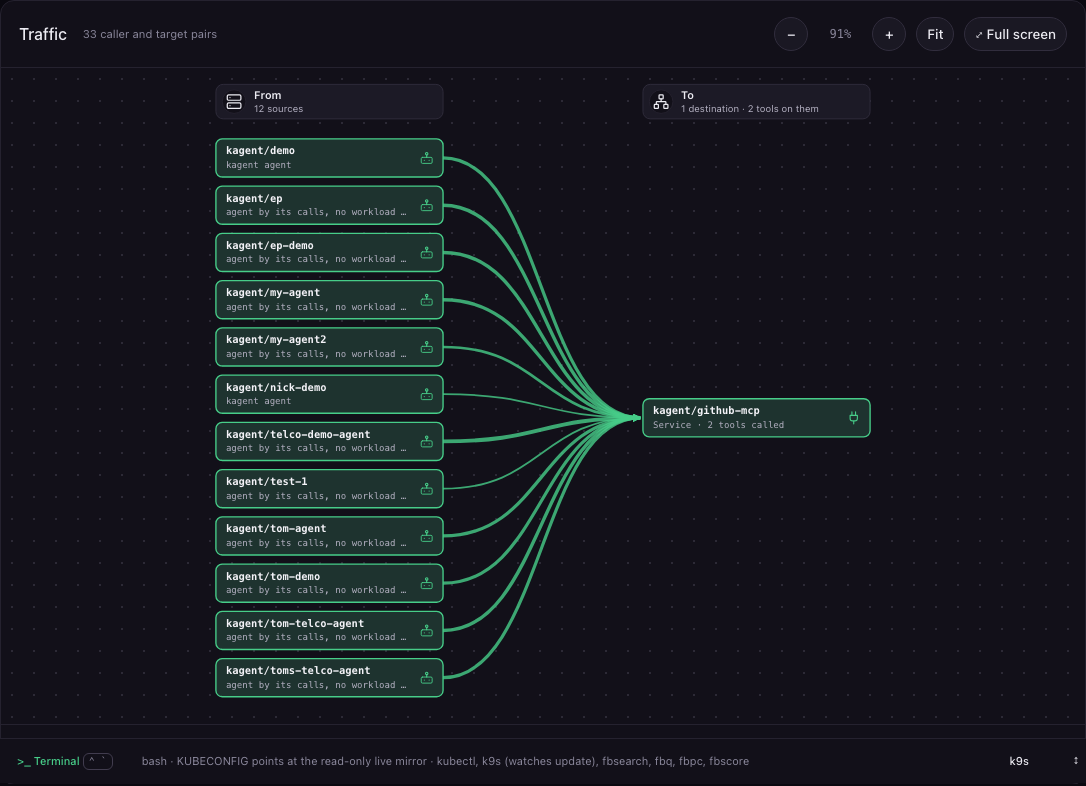
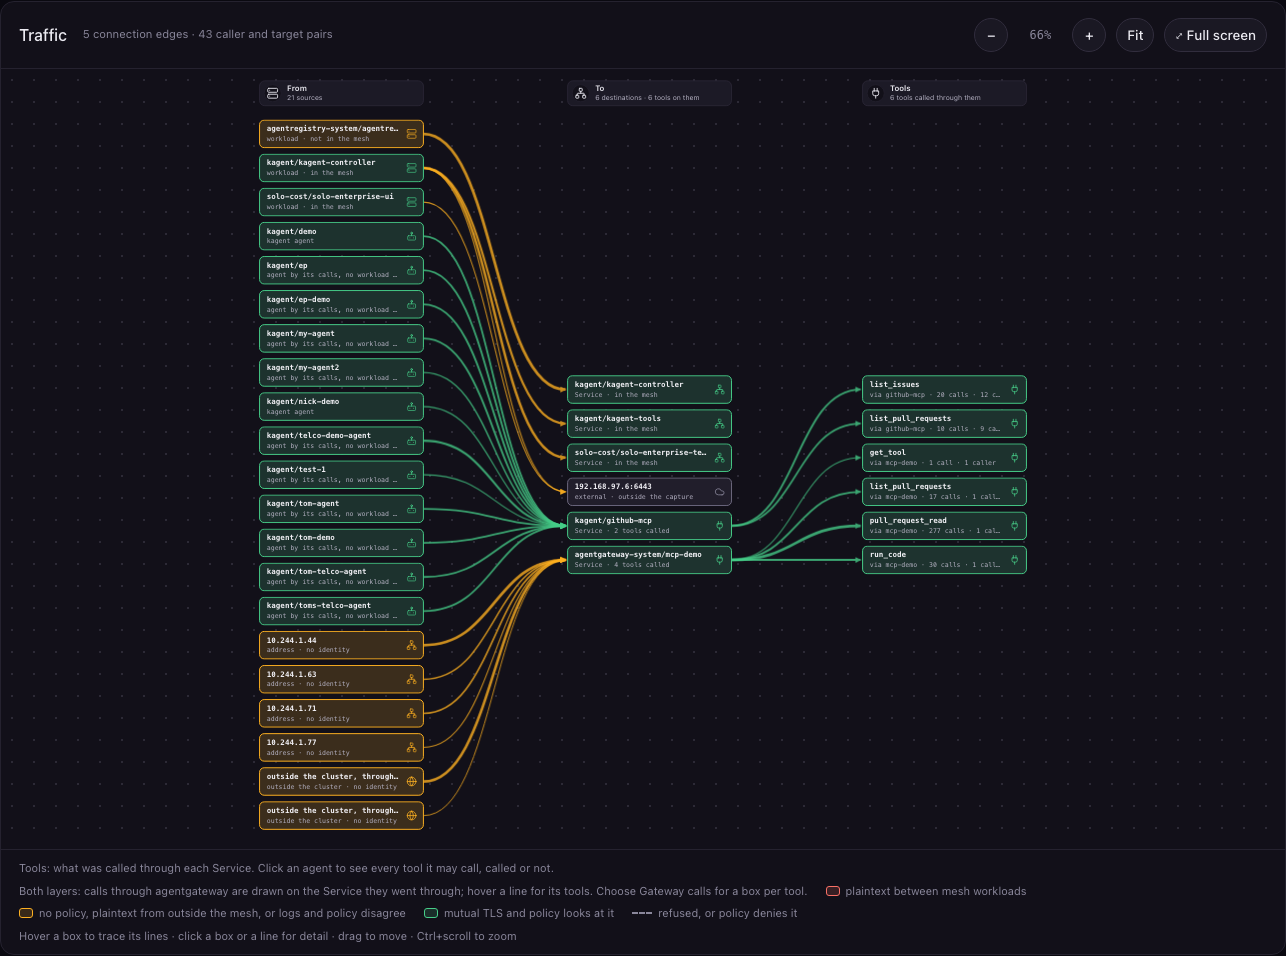
Traffic: a Tools column behind each Service with both layers on, showing every tool called through it with calls and callers; hovering an agent traces through to its tools, hovering a tool to its callers

diff --git a/web/traffic.js b/web/traffic.js
@@ -44,29 +44,36 @@ function fbFindingsWire(st, list, key) {
 // left by the average row of what they call, so lines cross as little as a
 // single pass allows. Lines are curves in the gap between the two columns, so
 // they never cross a box.
-function fbGraph({left, right, edges, heads, sel}) {
-  const bw = 250, bh = 42, vg = 10, gap = Math.max(220, Math.min(420, 90 + edges.length * 4)), HB = 52, top = HB + 16;
-  const L = [...left], R = [...right];
+// far, when given, is a third column; its edges run from a right-hand box
+// to a far box, and an edge's by lists the left-hand boxes it stands for,
+// so hovering one of those traces through to the far column.
+function fbGraph({left, right, far = [], edges, heads, sel}) {
+  const bw = 250, bh = 42, vg = 10, gap = Math.max(220, Math.min(420, 90 + edges.length * 4)), gap2 = 200, HB = 52, top = HB + 16;
+  const L = [...left], R = [...right], F = [...far];
   const li = new Map(L.map((n, i) => [n.id, i]));
   const bary = (n, map, key) => { const xs = edges.filter(e => e[key] === n.id).map(e => map.get(e[key === 'to' ? 'from' : 'to'])).filter(x => x !== undefined); return xs.length ? xs.reduce((a, b) => a + b, 0) / xs.length : 1e9; };
   R.sort((a, b) => (a.order ?? 1) - (b.order ?? 1) || bary(a, li, 'to') - bary(b, li, 'to') || a.label.localeCompare(b.label));
   const ri = new Map(R.map((n, i) => [n.id, i]));
   L.sort((a, b) => bary(a, ri, 'from') - bary(b, ri, 'from') || a.label.localeCompare(b.label));
   const lrow = new Map(L.map((n, i) => [n.id, i])), rrow = new Map(R.map((n, i) => [n.id, i]));
-  const rows = Math.max(L.length, R.length, 1);
-  const lOff = (rows - L.length) * (bh + vg) / 2, rOff = (rows - R.length) * (bh + vg) / 2;
-  const X0 = 16, X1 = 16 + bw + gap;
-  const W = X1 + bw + 16, H = top + rows * (bh + vg) + 10;
-  const yL = id => top + lOff + lrow.get(id) * (bh + vg), yR = id => top + rOff + rrow.get(id) * (bh + vg);
+  const ri2 = new Map(R.map((n, i) => [n.id, i]));
+  F.sort((a, b) => bary(a, ri2, 'to') - bary(b, ri2, 'to') || a.label.localeCompare(b.label));
+  const frow = new Map(F.map((n, i) => [n.id, i]));
+  const rows = Math.max(L.length, R.length, F.length, 1);
+  const lOff = (rows - L.length) * (bh + vg) / 2, rOff = (rows - R.length) * (bh + vg) / 2, fOff = (rows - F.length) * (bh + vg) / 2;
+  const X0 = 16, X1 = 16 + bw + gap, X2 = X1 + bw + gap2;
+  const W = (F.length ? X2 : X1) + bw + 16, H = top + rows * (bh + vg) + 10;
+  const yL = id => top + lOff + lrow.get(id) * (bh + vg), yR = id => top + rOff + rrow.get(id) * (bh + vg), yF = id => top + fOff + frow.get(id) * (bh + vg);
   const fit = (s, px) => { const n = Math.max(4, Math.floor((bw - 44) / px)); s = String(s || ''); return s.length > n ? s.slice(0, n - 1) + '…' : s; };
   const risk = r => ['red', 'amber', 'green', 'grey'].includes(r) ? r : 'grey';
   const rank = {grey: 0, green: 1, amber: 2, red: 3};
-  const es = edges.filter(e => lrow.has(e.from) && rrow.has(e.to)).sort((a, b) => rank[risk(a.risk)] - rank[risk(b.risk)]);
+  const es = edges.filter(e => (lrow.has(e.from) && rrow.has(e.to)) || (rrow.has(e.from) && frow.has(e.to))).sort((a, b) => rank[risk(a.risk)] - rank[risk(b.risk)]);
   const edgeSvg = es.map(e => {
-    const sx = X0 + bw, sy = yL(e.from) + bh / 2, tx = X1 - 3, ty = yR(e.to) + bh / 2;
-    const d = `M${sx},${sy} C${sx + gap / 2},${sy} ${tx - gap / 2},${ty} ${tx},${ty}`;
-    const on = sel && (sel === e.id || sel === e.from || sel === e.to);
-    return `<g class="rg-edge rg-${risk(e.risk)} ${e.dash ? 'rg-dash' : ''} ${e.cls || ''} ${on ? 'fb-on' : ''}" data-f="${esc(e.from)}" data-t="${esc(e.to)}" data-fbe="${esc(e.id)}"><title>${esc(e.tip || '')}</title><path class="rg-hit" d="${d}"/><path class="rg-line" d="${d}" style="stroke-width:${e.w || 1.4}" marker-end="url(#fba-${risk(e.risk)})"/></g>`;
+    const second = rrow.has(e.from), g = second ? gap2 : gap;
+    const sx = (second ? X1 : X0) + bw, sy = (second ? yR(e.from) : yL(e.from)) + bh / 2, tx = (second ? X2 : X1) - 3, ty = (second ? yF(e.to) : yR(e.to)) + bh / 2;
+    const d = `M${sx},${sy} C${sx + g / 2},${sy} ${tx - g / 2},${ty} ${tx},${ty}`;
+    const on = sel && (sel === e.id || sel === e.from || sel === e.to || (e.by || []).includes(sel));
+    return `<g class="rg-edge rg-${risk(e.risk)} ${e.dash ? 'rg-dash' : ''} ${e.cls || ''} ${on ? 'fb-on' : ''}" data-f="${esc(e.from)}" data-t="${esc(e.to)}" data-fbe="${esc(e.id)}"${e.by ? ` data-by="${esc(e.by.join(' '))}"` : ''}><title>${esc(e.tip || '')}</title><path class="rg-hit" d="${d}"/><path class="rg-line" d="${d}" style="stroke-width:${e.w || 1.4}" marker-end="url(#fba-${risk(e.risk)})"/></g>`;
   }).join('');
   const node = (n, x, y) => `<g class="rg-node rg-${risk(n.risk)} rg-click ${n.dim ? 'rg-dim' : ''} ${n.cls || ''} ${sel === n.id ? 'rg-sel' : ''}" data-rgid="${esc(n.id)}" transform="translate(${x},${y})"><title>${esc(n.tip || n.label)}</title>
     <rect width="${bw}" height="${bh}" rx="7"/>${rgIcon(n.icon || 'service', bw - 26, (bh - 16) / 2, 16, 'rg-nic')}<text x="11" y="17" class="rg-l">${esc(fit(n.label, 7.1))}</text><text x="11" y="32" class="rg-s">${esc(fit(n.sub || '', 6.2))}</text></g>`;
@@ -75,7 +82,7 @@ function fbGraph({left, right, edges, heads, sel}) {
     <text x="42" y="16" class="rg-hl">${esc(label)}</text><text x="42" y="30" class="rg-hn">${esc(note)}</text></g>`;
   const marker = r => `<marker id="fba-${r}" viewBox="0 0 10 10" refX="9" refY="5" markerUnits="userSpaceOnUse" markerWidth="9" markerHeight="9" orient="auto"><path d="M0,0 L10,5 L0,10 z" class="rg-arrow-${r}"/></marker>`;
   return `<svg class="rg" id="rg-svg" data-w="${W}" data-h="${H}" width="100%" height="100%" role="img"><defs>${['red', 'amber', 'green', 'grey'].map(marker).join('')}</defs><g id="rg-root">
-    ${headSvg(X0, heads[0])}${headSvg(X1, heads[1])}${edgeSvg}${L.map(n => node(n, X0, yL(n.id))).join('')}${R.map(n => node(n, X1, yR(n.id))).join('')}</g></svg>`;
+    ${headSvg(X0, heads[0])}${headSvg(X1, heads[1])}${F.length && heads[2] ? headSvg(X2, heads[2]) : ''}${edgeSvg}${L.map(n => node(n, X0, yL(n.id))).join('')}${R.map(n => node(n, X1, yR(n.id))).join('')}${F.map(n => node(n, X2, yF(n.id))).join('')}</g></svg>`;
 }
 
 function fbGraphPanel(title, st, svg, controls, legend) {
@@ -105,7 +112,15 @@ function fbGraphWire(st, key, onPick) {
     g.onmouseenter = () => {
       clear();
       const id = g.dataset.rgid, near = new Set([id]);
-      rg.querySelectorAll('.rg-edge').forEach(e => { if (e.dataset.f === id || e.dataset.t === id) { e.classList.add('on'); near.add(e.dataset.f); near.add(e.dataset.t); } });
+      const byOf = e => (e.dataset.by || '').split(' ').filter(Boolean);
+      const edges = [...rg.querySelectorAll('.rg-edge')];
+      edges.forEach(e => { if (e.dataset.f === id || e.dataset.t === id) { e.classList.add('on'); near.add(e.dataset.f); near.add(e.dataset.t); } });
+      // A caller lights its tools beyond the Service; a tool lights its callers.
+      edges.forEach(e => {
+        const by = byOf(e);
+        if (by.includes(id)) { e.classList.add('on'); near.add(e.dataset.f); near.add(e.dataset.t); edges.forEach(x => { if (x.dataset.f === id && x.dataset.t === e.dataset.f) x.classList.add('on'); }); }
+        if (e.dataset.t === id) by.forEach(c => { near.add(c); edges.forEach(x => { if (x.dataset.f === c && x.dataset.t === e.dataset.f) x.classList.add('on'); }); });
+      });
       rg.querySelectorAll('[data-rgid]').forEach(x => { if (near.has(x.dataset.rgid)) x.classList.add('on'); });
       rg.classList.add('rg-hl');
     };
@@ -451,6 +466,14 @@ function tfSelPanel(d, a, nodes, callers, targets) {
   // A caller-to-Service line (drawn with both layers on, or a connection that
   // also carried gateway calls): what the caller may call on the MCP servers
   // behind that Service, and the calls themselves.
+  if (T.sel.startsWith('svctl:')) T.sel = T.sel.slice(6);
+  if (T.sel.startsWith('svct:')) {
+    const [svc, tool] = T.sel.slice(5).split('|');
+    const es = (a.edges || []).filter(e => e.service === svc && (t => t && (t.kind === 'tool' ? t.label : actTargetLabel(t)) === tool)(targets.get(e.to)));
+    return `<section class="panel mt"><div class="panel-head"><h2><span class="mono">${esc(tool)}</span> through ${esc(nodes.get(svc)?.label || svc)}</h2><button class="ghost" id="act-selx" aria-label="Close">✕</button></div>
+      <div class="table-scroll" style="max-height:44vh"><table><thead><tr><th>Caller</th><th>Calls</th><th>Refused</th><th>Failed</th><th>Last seen</th><th></th></tr></thead><tbody>
+      ${es.sort((x, y) => y.requests - x.requests).map(e => { const c = callers.get(e.from); return `<tr><td>${esc(c?.label || e.from)}</td><td class="mono">${num(e.requests)}</td><td class="mono ${e.denied ? 'amber' : ''}">${num(e.denied)}</td><td class="mono">${num(e.errors)}</td><td class="rc-small">${fbTime(e.last)}</td><td>${c && (c.agentType || c.agentic) ? `<button class="ghost" data-tffollow="${esc(c.id)}">Every tool it may call</button>` : ''}</td></tr>`; }).join('')}</tbody></table></div></section>`;
+  }
   if (T.sel.startsWith('acc:') && T.focus) {
     const srv = T.sel.slice(4, T.sel.lastIndexOf('/'));
     const who = taWho(a, [T.focus]);
@@ -557,6 +580,25 @@ function tfMap(d, a, netE, gwE0, nodes, callers, targets, layer) {
   const maxC = Math.max(1, ...netE.map(e => e.connections)), maxR = Math.max(1, ...gwE.map(e => e.requests));
   const ge = netE.map(e => ({id: e.id, from: e.from, to: e.to, risk: e.risk, dash: e.denied > 0 || e.verdict === 'denied', w: 1.2 + 3 * Math.log(1 + e.connections) / Math.log(1 + maxC),
     tip: `${nodes.get(e.from)?.label} → ${nodes.get(e.to)?.label}\n${num(e.connections)} connections, ${e.tls}${e.denied ? `, ${num(e.denied)} refused` : ''}${e.via ? `\nvia ${e.via}` : ''}\npolicy: ${e.verdict}${e.layer ? ' (' + e.layer + ')' : ''}\n${e.why}\nClick for the checks`}));
+  // The overview with both layers: a Tools column behind each Service.
+  const far = [];
+  if (both && !acc.length) {
+    const per = new Map(); // svc|tool -> {calls, callers, refused}
+    for (const x of onSvc.values()) for (const [tool, n] of x.tools) {
+      const k = x.to + '|' + tool;
+      const y = per.get(k) || {svc: x.to, tool, calls: 0, callers: new Set(), outside: false};
+      y.calls += n; y.callers.add(x.from); y.outside ||= x.outside; per.set(k, y);
+    }
+    const maxT = Math.max(1, ...[...per.values()].map(y => y.calls));
+    const tgt = new Map((a.targets || []).map(x => [(x.kind === 'tool' ? x.label : actTargetLabel(x)), x]));
+    for (const y of per.values()) {
+      const id = 'svct:' + y.svc + '|' + y.tool, t = tgt.get(y.tool);
+      const cl = [...y.callers].map(c => callers.get(c)?.label || c);
+      far.push({id, label: y.tool, sub: `via ${lastPartJS(svcLabel(y.svc))} · ${fbPlural(y.calls, 'call')} · ${fbPlural(cl.length, 'caller')}`, risk: t?.undeclared || y.outside ? 'red' : t?.denied ? 'amber' : 'green', icon: t?.kind === 'model' ? 'sparkles' : 'plug',
+        tip: `${y.tool}${t?.server ? ' on ' + t.server : ''}\n${num(y.calls)} calls through ${svcLabel(y.svc)}\nCalled by ${cl.join(', ')}${t?.description ? '\n' + t.description : ''}\nClick an agent for every tool it may call`});
+      ge.push({id: 'svctl:' + id, from: y.svc, to: id, by: [...y.callers], risk: 'green', cls: 'fb-gw', w: 1.2 + 3 * Math.log(1 + y.calls) / Math.log(1 + maxT), tip: `${svcLabel(y.svc)} → ${y.tool}: ${num(y.calls)} calls by ${cl.join(', ')}`});
+    }
+  }
   const maxS = Math.max(1, ...[...onSvc.values()].map(x => x.requests));
   for (const x of onSvc.values()) {
     const calls = `Through agentgateway (${[...x.gateways].join(', ')}): ${num(x.requests)} calls${x.denied ? `, ${num(x.denied)} refused` : ''}${x.errors ? `, ${num(x.errors)} failed` : ''}${x.tokens ? `, ${num(x.tokens)} tokens` : ''}${x.tools.size ? '\n' + [...x.tools].map(([k, n]) => `  ${k} ×${n}`).join('\n') : ''}`;
@@ -607,9 +649,9 @@ function tfMap(d, a, netE, gwE0, nodes, callers, targets, layer) {
   }
   const nAcc = acc.reduce((n, x) => n + x.rows.length, 0);
   const toNote = [nAcc ? `${fbPlural(nAcc, 'tool')} it may call or called` : '', nSvc ? fbPlural(nSvc, 'destination') : '', nCalled ? `${num(nCalled)} tools, models or agents called` : nOnSvc ? `${num(nOnSvc)} tools on them` : '', ghosts ? `${num(ghosts)} allowed, not used` : ''].filter(Boolean).join(' · ');
-  const svg = fbGraph({left, right, edges: ge, sel: T.sel, heads: [['server', 'From', fbPlural(left.length, 'source')], ['network', 'To', toNote]]});
+  const svg = fbGraph({left, right, far, edges: ge, sel: T.sel, heads: [['server', 'From', fbPlural(left.length, 'source')], ['network', 'To', toNote], ['plug', 'Tools', `${fbPlural(far.length, 'tool')} called through them`]]});
   const legend = (acc.length ? `<span class="muted">Following ${esc(left.find(n => n.id === T.focus)?.label || '')}: a box for every tool it has access to on ${acc.map(x => esc(x.server)).join(', ')}.</span><span><i class="rc-sw green"></i>allowed, called</span><span><i class="rc-sw dash"></i><span class="muted">faded:</span> allowed, not called</span><span><i class="rc-sw red"></i>called, not allowed by the captured allowlist</span>` : '')
-    + (both && !acc.length ? '<span class="muted">Click an agent to see every tool it may call.</span>' : '')
+    + (both && !acc.length ? `<span class="muted">${far.length ? 'Tools: what was called through each Service. ' : ''}Click an agent to see every tool it may call, called or not.</span>` : '')
     + (both && !acc.length ? '<span class="muted">Both layers: calls through agentgateway are drawn on the Service they went through; hover a line for its tools. Choose Gateway calls for a box per tool.</span>' : '')
     + (T.focus && T.freach && (!acc.length || T.showGhosts) ? '<span><i class="rc-sw dash"></i><span class="muted">faded Services:</span> allowed by policy, not used</span>' : '')
     + (netE.length ? '<span><i class="rc-sw red"></i>plaintext between mesh workloads</span><span><i class="rc-sw amber"></i>no policy, plaintext from outside the mesh, or logs and policy disagree</span><span><i class="rc-sw green"></i>mutual TLS and policy looks at it</span>' : '')
@@ -793,6 +835,7 @@ after.traffic = () => {
   document.querySelectorAll('[data-actsel]').forEach(tr => tr.onclick = () => select(tr.dataset.actsel));
   document.querySelectorAll('[data-tfwhy]').forEach(b => b.onclick = () => select(b.dataset.tfwhy));
   $('#tf-selx')?.addEventListener('click', () => keepY(() => { T.sel = ''; }));
+  document.querySelectorAll('[data-tffollow]').forEach(b => b.onclick = () => { T.focus = b.dataset.tffollow; T.sel = T.focus; T.fexp = {}; T.gz = null; render(); });
   $('#tf-ghosts')?.addEventListener('click', () => keepY(() => { T.showGhosts = !T.showGhosts; T.gz = null; }));
   $('#tf-agents')?.addEventListener('click', () => keepY(() => { T.agents = !T.agents; T.gz = null; }));
   $('#tf-unfocus')?.addEventListener('click', () => { T.focus = ''; T.freach = null; T.fexp = {}; T.gz = null; T.sel = ''; history.replaceState(null, '', '#traffic'); T.lastHash = location.hash; render(); });

diff --git a/docs/site/content/desk/traffic.md b/docs/site/content/desk/traffic.md
@@ -19,13 +19,15 @@ For one agent at a time (what it may reach, what it used, and the policy that wo
 
 Traffic is part of [Flightbay Enterprise](/enterprise/). Turn it on with `FLIGHTBAY_ENTERPRISE=1 flightbay ui` or `FLIGHTBAY_FEATURES=traffic` (`activity`, the name of the gateway layer's old page, still works).
 
-![Agents only, both layers: every agent that called GitHub tools, drawn on the Service the calls went through](/images/traffic-map.png)
+![Both layers: sources, the Services they reached, and the tools called through each](/images/traffic-map.png)
 
 ## Layers
 
 **Both**, **Network** and **Gateway calls** choose what the map draws; clicking the Connections or Gateway calls total does the same. A workload that does both appears once on the left.
 
-With both layers on, the right-hand column holds Services only. A call through agentgateway is drawn on the Service it went through (the waypoint's Service, or the gateway's), and the box says how many tools were called on it (`kagent/github-mcp · Service · 2 tools called`). Hover the line for the tools and counts, or click the Service for a table of every call through it. When ztunnel also logged the connection, the calls are added to that line; a caller whose connections are not in the capture gets a line of its own. Choose **Gateway calls** for a box per tool, model and agent.
+With both layers on, the map has three columns: sources, the Services they reached, and **Tools**, every MCP tool (and model) called through each Service, with its calls and callers. Hover an agent to trace it through its Service to the tools it called; hover a tool to see who called it; click a tool for its callers, with a button to see every tool one of them may call.
+
+The middle column holds Services only. A call through agentgateway is drawn on the Service it went through (the waypoint's Service, or the gateway's), and the box says how many tools were called on it (`kagent/github-mcp · Service · 2 tools called`). Hover the line for the tools and counts, or click the Service for a table of every call through it. When ztunnel also logged the connection, the calls are added to that line; a caller whose connections are not in the capture gets a line of its own. Choose **Gateway calls** for a box per tool, model and agent.
 
 ### What a caller may call
 
